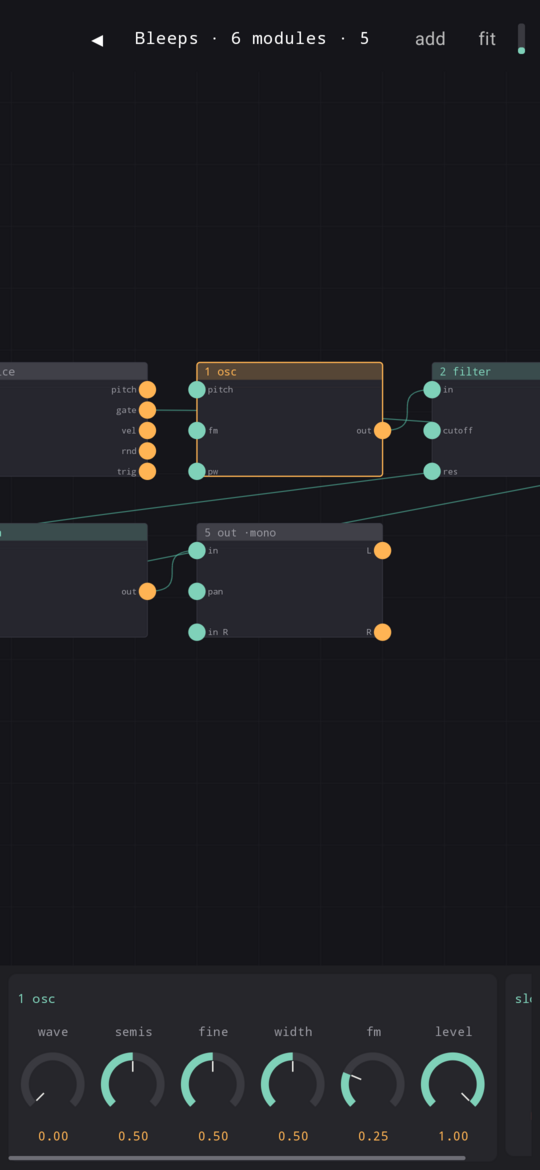
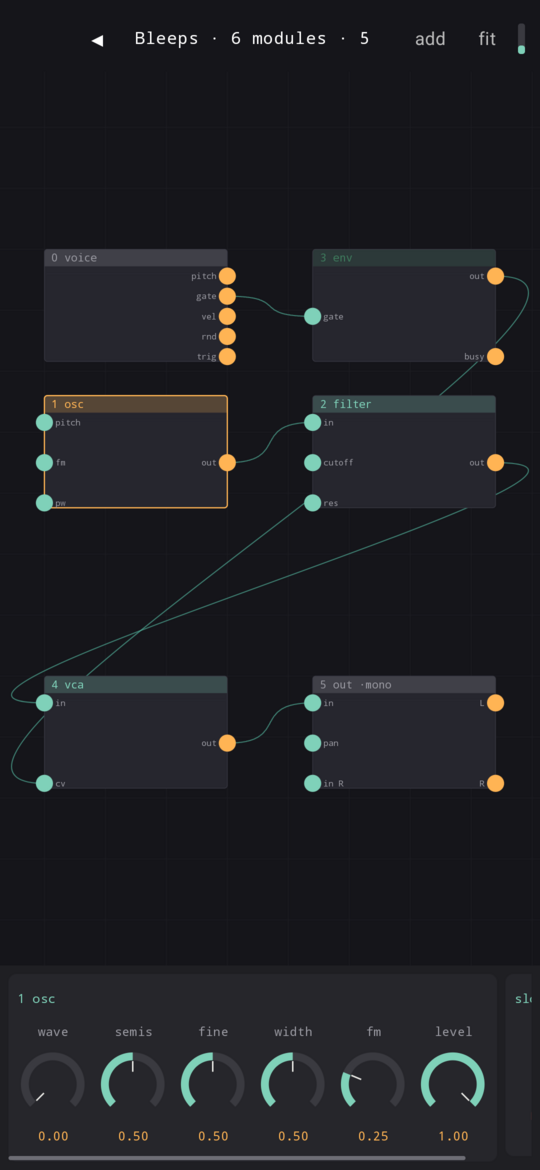
README: keyboards, and the modular screenshot fitted
Claude-Session: https://claude.ai/code/session_01La25LvucVx49fznad4cUrh

diff --git a/README.md b/README.md
@@ -127,6 +127,7 @@ Each has the usual controls plus one extra, and a page in the manual.
 - MPE.
 - Ableton Link, and MIDI clock in and out. Clock in can follow on its own when a clock arrives.
 - Map any MIDI CC or note to any control.
+- Keyboards, the phone's own or USB or Bluetooth: letters play notes, every control can be reached and worked from keys, and there are shortcuts on every screen that you can change in Settings.
 
 ### Import and export
 
@@ -138,7 +139,7 @@ Anything exported can go straight to the share sheet, and a song can be shared a
 
 ### Accessibility
 
-Works with TalkBack. Every control says what it is and what it's set to, knobs and faders change with a swipe, and anything you'd hold is in TalkBack's actions menu. There's also a high contrast theme in Settings.
+Works with TalkBack. Every control says what it is and what it's set to, knobs and faders change with a swipe, and anything you'd hold is in TalkBack's actions menu. Everything can also be done from a keyboard. There's also a high contrast theme in Settings.
 
 ---
 
